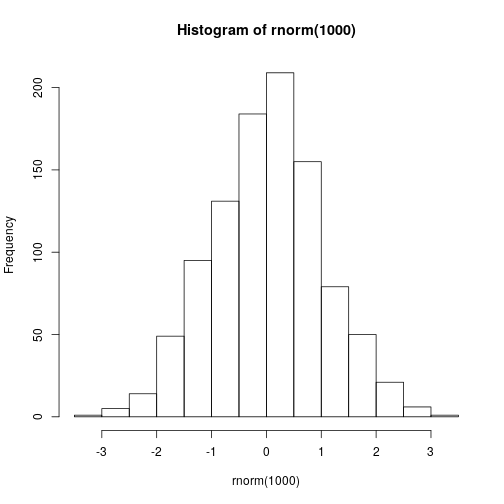
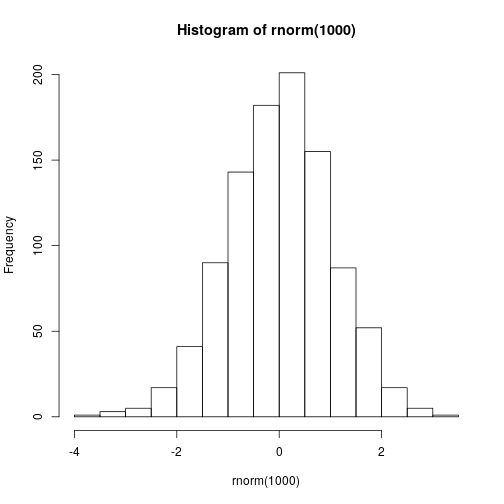
updated module1

diff --git a/modules/module1_basics_slides.html b/modules/module1_basics_slides.html
@@ -63,7 +63,7 @@ August 2020, UC Berkeley
 <div class="sourceCode"><pre class="sourceCode r"><code class="sourceCode r"><span class="dv">2</span> <span class="op">*</span><span class="st"> </span>pi <span class="co"># multiply by a constant</span></code></pre></div>
 <pre><code>## [1] 6.283185</code></pre>
 <div class="sourceCode"><pre class="sourceCode r"><code class="sourceCode r"><span class="dv">7</span> <span class="op">+</span><span class="st"> </span><span class="kw">runif</span>(<span class="dv">1</span>) <span class="co"># add a random number</span></code></pre></div>
-<pre><code>## [1] 7.261688</code></pre>
+<pre><code>## [1] 7.790617</code></pre>
 <div class="sourceCode"><pre class="sourceCode r"><code class="sourceCode r"><span class="dv">3</span><span class="op">^</span><span class="dv">4</span> <span class="co"># powers</span></code></pre></div>
 <pre><code>## [1] 81</code></pre>
 <div class="sourceCode"><pre class="sourceCode r"><code class="sourceCode r"><span class="kw">sqrt</span>(<span class="dv">4</span><span class="op">^</span><span class="dv">4</span>) <span class="co"># functions</span></code></pre></div>
@@ -151,7 +151,7 @@ countries</code></pre></div>
 nums &lt;-<span class="st"> </span><span class="kw">c</span>(<span class="fl">1.1</span>, <span class="dv">3</span>, <span class="fl">-5.7</span>)
 devs &lt;-<span class="st"> </span><span class="kw">rnorm</span>(<span class="dv">5</span>)
 devs</code></pre></div>
-<pre><code>## [1] -1.3188038  0.4400942  0.5060700  1.5566275  0.2395763</code></pre>
+<pre><code>## [1] -0.2614461 -0.8418435  0.7630363 -0.4339823  0.2556934</code></pre>
 <div class="sourceCode"><pre class="sourceCode r"><code class="sourceCode r">## integer vector
 ints &lt;-<span class="st"> </span><span class="kw">c</span>(1L, 5L, <span class="op">-</span>3L) <span class="co"># force storage as integer not decimal number</span>
 ## 'L' is for 'long integer' (historical)
@@ -203,9 +203,9 @@ vals</code></pre></div>
 ##
 ## setwd('/Users/paciorek/Desktop/r-bootcamp-fall-2020/modules')
 ##
-## replace '/Users/paciorek/Desktop' with whatever directory you put the R part of the Bridge
+## replace '/Users/paciorek/Desktop' with whatever directory you put the bootcamp
 ## materials in.
-## On Windows, it would look somethign like this:
+## On Windows, it would look something like this:
 ## setwd('C:\\Users\\sarah\\r-bootcamp-fall-2020\\modules')
 ##
 ## If you've done that correctly, then the next command reads
@@ -232,14 +232,15 @@ vals[<span class="dv">1</span><span class="op">:</span><span class="dv">2</span>
 ## How does R process these next subset operations?
 vals[vals <span class="op">&lt;</span><span class="st"> </span><span class="dv">0</span>] &lt;-<span class="st"> </span><span class="dv">0</span>
 vals[<span class="dv">1</span><span class="op">:</span><span class="dv">8</span>]</code></pre></div>
-<pre><code>## [1] 0.0000000 0.0000000 0.8654866 0.0000000 0.0000000 0.6689702 0.0000000
-## [8] 0.0000000</code></pre>
+<pre><code>## [1] 0.0000000 0.0000000 0.0000000 0.0000000 0.0000000 0.0000000 0.3456625
+## [8] 0.5818655</code></pre>
 <div class="sourceCode"><pre class="sourceCode r"><code class="sourceCode r">wealthy &lt;-<span class="st"> </span>gdp[gdp <span class="op">&gt;</span><span class="st"> </span><span class="dv">100000</span>]
 gdp[<span class="dv">1</span><span class="op">:</span><span class="dv">10</span>]</code></pre></div>
 <pre><code>##  [1] 779.4453 820.8530 853.1007 822.9711 739.9811 786.1134 978.0114
 ##  [8] 852.3959 649.3414 635.3414</code></pre>
-<p><strong>POLL 1B</strong>: Which of these will work to extract a subset of a vector? Assume the vector is created like this: vals &lt;- rnorm(4)</p>
-<ul>
+<p><strong>POLL 1B</strong>: Which of these will work to extract a subset of a vector? Assume the vector is created like this:</p>
+<pre><code>vals &lt;- rnorm(4)</code></pre>
+<ol style="list-style-type: decimal">
 <li>vals[3]</li>
 <li>vals[2,3]</li>
 <li>vals[c(2,3)]</li>
@@ -247,7 +248,7 @@ gdp[<span class="dv">1</span><span class="op">:</span><span class="dv">10</span>
 <li>vals[c(FALSE, TRUE, TRUE, FALSE)]</li>
 <li>vals[c(f,t,t,f)]</li>
 <li>vals(3)</li>
-</ul>
+</ol>
 </div>
 <div id="vectorized-calculations-and-comparisons" class="slide section level1">
 <h1>Vectorized calculations and comparisons</h1>
@@ -263,7 +264,7 @@ gdpSubset <span class="op">&gt;=</span><span class="st"> </span><span class="fl"
 <div class="sourceCode"><pre class="sourceCode r"><code class="sourceCode r">vec1 &lt;-<span class="st"> </span><span class="kw">rnorm</span>(<span class="dv">5</span>)
 vec2 &lt;-<span class="st"> </span><span class="kw">rnorm</span>(<span class="dv">5</span>)
 vec1 <span class="op">&gt;</span><span class="st"> </span>vec2</code></pre></div>
-<pre><code>## [1]  TRUE FALSE  TRUE FALSE  TRUE</code></pre>
+<pre><code>## [1]  TRUE FALSE  TRUE  TRUE  TRUE</code></pre>
 <div class="sourceCode"><pre class="sourceCode r"><code class="sourceCode r">vec1 <span class="op">==</span><span class="st"> </span>vec2</code></pre></div>
 <pre><code>## [1] FALSE FALSE FALSE FALSE FALSE</code></pre>
 <div class="sourceCode"><pre class="sourceCode r"><code class="sourceCode r">vec1 <span class="op">!=</span><span class="st"> </span>vec2</code></pre></div>
@@ -290,7 +291,7 @@ gap<span class="op">$</span>lifeExp[<span class="dv">1</span><span class="op">:<
 <div class="sourceCode"><pre class="sourceCode r"><code class="sourceCode r">median</code></pre></div>
 <pre><code>## function (x, na.rm = FALSE, ...) 
 ## UseMethod(&quot;median&quot;)
-## &lt;bytecode: 0x559966019a90&gt;
+## &lt;bytecode: 0x55dd6f2f3a90&gt;
 ## &lt;environment: namespace:stats&gt;</code></pre>
 <div class="sourceCode"><pre class="sourceCode r"><code class="sourceCode r"><span class="kw">class</span>(median)</code></pre></div>
 <pre><code>## [1] &quot;function&quot;</code></pre>
@@ -306,7 +307,7 @@ gap<span class="op">$</span>lifeExp[<span class="dv">1</span><span class="op">:<
 </ul>
 <div class="sourceCode"><pre class="sourceCode r"><code class="sourceCode r"><span class="kw">hist</span>(<span class="kw">rnorm</span>(<span class="dv">1000</span>))</code></pre></div>
 <div class="figure">
[2 lines of base64/hex data omitted]
 
 </div>
 </div>
@@ -403,7 +404,7 @@ myList</code></pre></div>
 <p><strong>POLL 1C</strong>: How would you extract &quot;china&quot; from this list?</p>
 <pre><code>myList &lt;- list(stuff = 3, mat = matrix(1:4, nrow = 2), 
    moreStuff = c(&quot;china&quot;, &quot;japan&quot;), list(5, &quot;bear&quot;))</code></pre>
-<ul>
+<ol style="list-style-type: decimal">
 <li>myList$moreStuff[1]</li>
 <li>myList$moreStuff[[1]]</li>
 <li>myList[[1]]</li>
@@ -411,7 +412,7 @@ myList</code></pre></div>
 <li>myList[[3]][1]</li>
 <li>myList[3][1]</li>
 <li>myList[['moreStuff']][1]</li>
-</ul>
+</ol>
 </div>
 <div id="converting-between-different-types-of-objects" class="slide section level1">
 <h1>Converting between different types of objects</h1>
@@ -431,20 +432,21 @@ ints[indices]</code></pre></div>
 <ol style="list-style-type: lower-alpha">
 <li>What do you think this will do?</li>
 </ol>
-<p>ints &lt;- 1:5 ints[0.9999]</p>
-<ul>
+<pre><code>ints &lt;- 1:5
+ints[0.9999]</code></pre>
+<ol style="list-style-type: decimal">
 <li>return an error</li>
 <li>return 1</li>
 <li>return an empty vector</li>
-</ul>
+</ol>
 <ol start="2" style="list-style-type: lower-alpha">
 <li>What does the code do when it tries to use 0.9999 to subset?</li>
 </ol>
-<ul>
+<ol style="list-style-type: decimal">
 <li>round the 0.9999 to 1</li>
 <li>truncate the 0.9999 to 0</li>
 <li>return an error</li>
-</ul>
+</ol>
 </div>
 <div id="a-bit-on-plotting" class="slide section level1">
 <h1>A bit on plotting</h1>

diff --git a/modules/module1_basics.html b/modules/module1_basics.html
@@ -221,7 +221,7 @@ hr {
 <pre><code class="r">7 + runif(1) # add a random number
 </code></pre>
 
-<pre><code>## [1] 7.905225
+<pre><code>## [1] 7.908325
 </code></pre>
 
 <pre><code class="r">3^4 # powers
@@ -387,7 +387,7 @@ devs &lt;- rnorm(5)
 devs
 </code></pre>
 
-<pre><code>## [1] -1.9941289 -0.2464323  0.6802459 -1.7546904 -1.1890529
+<pre><code>## [1]  0.3871680  1.2265521 -0.9743553  0.4992241  0.4877415
 </code></pre>
 
 <pre><code class="r">## integer vector
@@ -480,9 +480,9 @@ getwd()
 ##
 ## setwd(&#39;/Users/paciorek/Desktop/r-bootcamp-fall-2020/modules&#39;)
 ##
-## replace &#39;/Users/paciorek/Desktop&#39; with whatever directory you put the R part of the Bridge
+## replace &#39;/Users/paciorek/Desktop&#39; with whatever directory you put the bootcamp
 ## materials in.
-## On Windows, it would look somethign like this:
+## On Windows, it would look something like this:
 ## setwd(&#39;C:\\Users\\sarah\\r-bootcamp-fall-2020\\modules&#39;)
 ##
 ## If you&#39;ve done that correctly, then the next command reads
@@ -516,8 +516,8 @@ vals[vals &lt; 0] &lt;- 0
 vals[1:8]
 </code></pre>
 
-<pre><code>## [1] 0.0000000 0.0000000 0.0000000 0.0000000 1.4598026 0.0000000 1.4410880
-## [8] 0.4386969
+<pre><code>## [1] 0.0000000 0.0000000 0.0000000 2.8178043 0.4882115 0.0000000 1.3664011
+## [8] 0.0000000
 </code></pre>
 
 <pre><code class="r">wealthy &lt;- gdp[gdp &gt; 100000]
@@ -529,17 +529,18 @@ gdp[1:10]
 </code></pre>
 
 <p><strong>POLL 1B</strong>: Which of these will work to extract a subset of a vector?
-Assume the vector is created like this: vals &lt;- rnorm(4)</p>
+Assume the vector is created like this:</p>
 
-<ul>
-<li>vals[3]</li>
-<li>vals[2,3]</li>
-<li>vals[c(2,3)]</li>
-<li>vals(2,3)</li>
-<li>vals[c(FALSE, TRUE, TRUE, FALSE)]</li>
-<li>vals[c(f,t,t,f)]</li>
-<li>vals(3)</li>
-</ul>
+<pre><code>vals &lt;- rnorm(4)
+</code></pre>
+
+<p>1) vals[3]
+2) vals[2,3]
+3) vals[c(2,3)]
+4) vals(2,3)
+5) vals[c(FALSE, TRUE, TRUE, FALSE)]
+6) vals[c(f,t,t,f)]
+7) vals(3)</p>
 
 <h1>Vectorized calculations and comparisons</h1>
 
@@ -562,7 +563,7 @@ vec2 &lt;- rnorm(5)
 vec1 &gt; vec2
 </code></pre>
 
-<pre><code>## [1]  TRUE FALSE  TRUE  TRUE  TRUE
+<pre><code>## [1] FALSE  TRUE  TRUE  TRUE  TRUE
 </code></pre>
 
 <pre><code class="r">vec1 == vec2
@@ -613,7 +614,7 @@ gap$lifeExp[1:10] &lt; 75 &amp; gap$continent[1:10] == &quot;Americas&quot;
 
 <pre><code>## function (x, na.rm = FALSE, ...) 
 ## UseMethod(&quot;median&quot;)
-## &lt;bytecode: 0x559966019a90&gt;
+## &lt;bytecode: 0x55dd6f2f3a90&gt;
 ## &lt;environment: namespace:stats&gt;
 </code></pre>
 
@@ -650,7 +651,7 @@ gap$lifeExp[1:10] &lt; 75 &amp; gap$continent[1:10] == &quot;Americas&quot;
 <pre><code class="r">hist(rnorm(1000))
 </code></pre>
 
[2 lines of base64/hex data omitted]
 
 <h1>Getting help about a function</h1>
 
@@ -821,15 +822,13 @@ names(myList)
    moreStuff = c(&quot;china&quot;, &quot;japan&quot;), list(5, &quot;bear&quot;))
 </code></pre>
 
-<ul>
-<li>myList$moreStuff[1]</li>
-<li>myList$moreStuff[[1]]</li>
-<li>myList[[1]]</li>
-<li>myList[[3]][2]</li>
-<li>myList[[3]][1]</li>
-<li>myList[3][1]</li>
-<li>myList[[&#39;moreStuff&#39;]][1]</li>
-</ul>
+<p>1) myList$moreStuff[1]
+2) myList$moreStuff[[1]]
+3) myList[[1]]
+4) myList[[3]][2]
+5) myList[[3]][1]
+6) myList[3][1]
+7) myList[[&#39;moreStuff&#39;]][1]</p>
 
 <h1>Converting between different types of objects</h1>
 
@@ -867,22 +866,19 @@ ints[indices]
 
 <p>a) What do you think this will do?</p>
 
-<p>ints &lt;- 1:5
-ints[0.9999]</p>
+<pre><code>ints &lt;- 1:5
+ints[0.9999]
+</code></pre>
 
-<ul>
-<li>return an error</li>
-<li>return 1</li>
-<li>return an empty vector</li>
-</ul>
+<p>1) return an error
+2) return 1
+3) return an empty vector</p>
 
 <p>b) What does the code do when it tries to use 0.9999 to subset?</p>
 
-<ul>
-<li>round the 0.9999 to 1</li>
-<li>truncate the 0.9999 to 0</li>
-<li>return an error</li>
-</ul>
+<p>1) round the 0.9999 to 1
+2) truncate the 0.9999 to 0
+3) return an error</p>
 
 <h1>A bit on plotting</h1>
 
